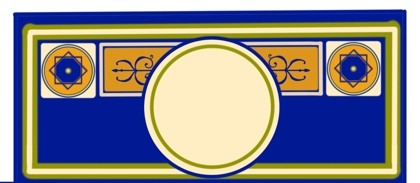
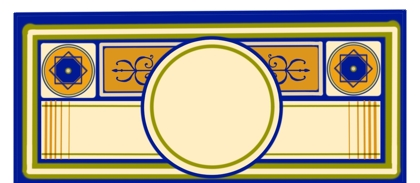
Refactor DiceControls: Use const constructors for SizedBox and Text widgets
Also adjusted the background image again.

Changed region(s): [[0.619, 0.5464, 0.9286, 0.9016], [0.0929, 0.5464, 0.4024, 0.8743], [0.0, 0.9836, 0.031, 1.0]]

diff --git a/lib/widgets/dice_controls.dart b/lib/widgets/dice_controls.dart
@@ -146,11 +146,11 @@ class DiceControls extends StatelessWidget {
   Widget _buildModifierControlNarrow() {
     return Row(
       children: [
-        SizedBox(
+        const SizedBox(
           width: _labelWidth,
           child: Text(
             'Modifier',
-            style: const TextStyle(
+            style: TextStyle(
               fontSize: 18,
               fontWeight: FontWeight.bold,
             ),
@@ -183,11 +183,11 @@ class DiceControls extends StatelessWidget {
   Widget _buildModifierControlWide() {
     return Row(
       children: [
-        SizedBox(
+        const SizedBox(
           width: _labelWidth,
           child: Text(
             'Modifier',
-            style: const TextStyle(
+            style: TextStyle(
               fontSize: 18,
               fontWeight: FontWeight.bold,
             ),
